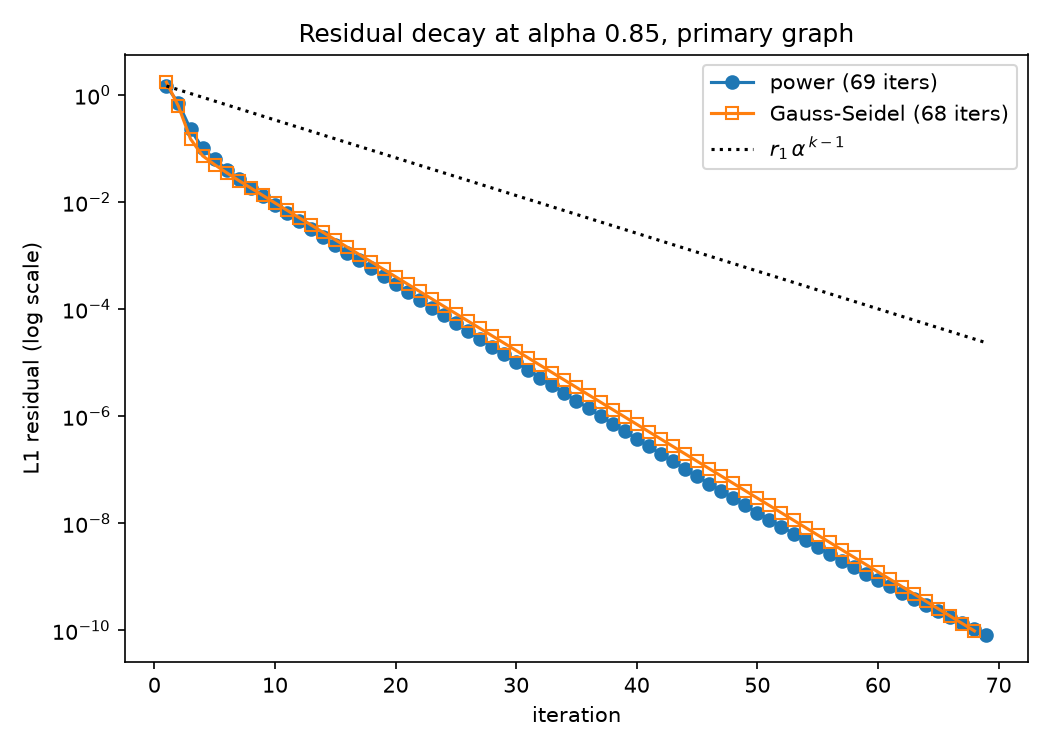
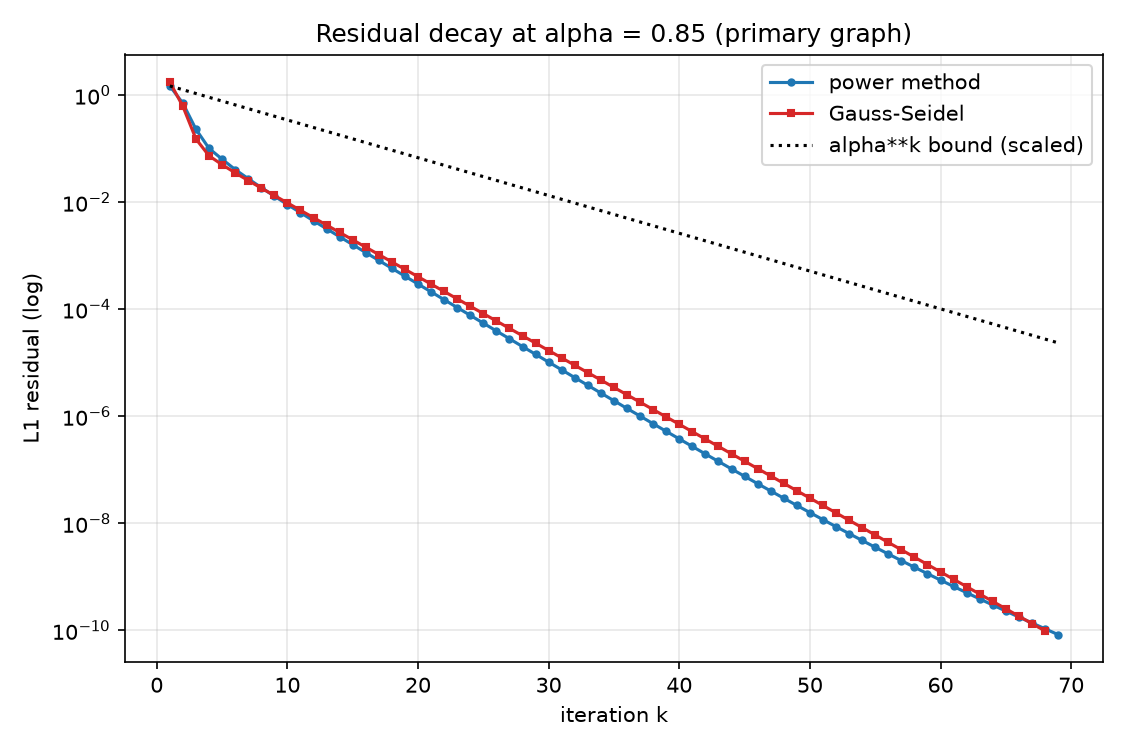
docs: log the convergence study

diff --git a/LAB_NOTEBOOK.md b/LAB_NOTEBOOK.md
@@ -1295,3 +1295,101 @@ inflates the recursive cone by a whole network, which is exactly why CAIDA
 observes cones from paths. The shipped cone stays the reference; the docstring
 of `customer_cone_sizes`, which had called the recursive count a lower bound,
 now says upper bound.
+
+---
+
+## 2026-10-20 — Convergence and the damping factor
+
+Extension 6: how the damping factor drives convergence and the ranking, and
+whether a second solver beats the power method. A Gauss-Seidel solver on the
+linear form of PageRank, plus a sweep of alpha over
+{0.50, 0.70, 0.85, 0.90, 0.95, 0.99} on the primary graph and on the
+peering-none graph, in one notebook.
+
+### Decisions
+
+- **Solve the linear form `(I - alpha P^T) x = (1 - alpha) v` by Gauss-Seidel,
+  one sparse lower-triangular solve per sweep.** Splitting `A = (D - L) - U`
+  and evaluating `x_new = (D - L)^{-1} ((1 - alpha) v + U x_old)` with
+  `spsolve_triangular` produces exactly the index-order scalar sweep, so it is
+  Gauss-Seidel and not a black-box solver; a test checks the first three sweeps
+  against a scalar reference loop element for element. One sweep on the primary
+  graph measured about 9 ms bare (24 ms under the executed notebook), far under
+  the 1 s threshold at which the design switches to an explicit forward-
+  substitution loop, so the triangular-solve path stands and the loop fallback
+  is not needed.
+- **Normalise once at the end, never inside the loop.** The transition matrix
+  is substochastic (dangling columns are zero), so the linear solve leaks mass
+  by design and its solution does not sum to 1. Dividing by the L1 norm once
+  after convergence is the dangling treatment itself: the toy-graph proof
+  (`test_dangling_conventions_agree_exactly`) shows the normalised
+  substochastic solution equals the repaired-matrix vector. Rescaling every
+  sweep would make the map non-linear and converge elsewhere.
+- **Report the convergence-rate comparison as a spectral-radius finding, not a
+  speed claim.** The first draft of the plan expected Gauss-Seidel to need
+  fewer iterations, a result that holds for many web graphs. It does not hold
+  here, and the honest framing is the reason why: each method converges at the
+  spectral radius of its own iteration matrix, and which is smaller depends on
+  the node ordering relative to the link structure. The notebook states this,
+  measures both rates on the two small fixtures exactly and on the AS graph by
+  the observed tail ratio, and concludes there is no gain on this graph in
+  ascending-ASN order. Node reorderings that might realise the advantage stay
+  out of scope (an extension of an extension).
+
+### What broke
+
+- **The expected "Gauss-Seidel needs fewer iterations" was false and would have
+  failed a test.** Symptom: on the toy graph Gauss-Seidel takes 70 sweeps to
+  tol 1e-13 against the power method's 60 (53 against 47 at 1e-10, 30 against 28
+  at 1e-6); on the primary graph the two tie within one iteration (68 against
+  69 at 1e-10) and Gauss-Seidel then falls behind as alpha rises, 930 against
+  215 at alpha 0.99. Cause: the Gauss-Seidel iteration matrix contracts less
+  per step than the power method's here. The exact 4x4 rates confirm it: on the
+  toy graph `rho(M^-1 U) = 0.668` against the Google matrix `|lambda_2| = 0.601`;
+  on the acyclic dangling fixture, whose node indices are already a topological
+  order, Gauss-Seidel is exact after one sweep (`rho = 0.000`). Fix: the
+  contested iteration-count test was replaced by two tests — one asserting the
+  measured rate ordering on the toy graph (and that Gauss-Seidel takes more
+  iterations there), one asserting one-sweep exactness on the acyclic fixture —
+  and the notebook was reframed to present the ordering dependence as the
+  finding.
+- **Per-step cost cuts the other way and had to be reported.** Even where
+  iteration counts tie, each Gauss-Seidel sweep is a triangular solve costing
+  about ten times a power-method mat-vec (median 8.25 ms against 0.80 ms per
+  iteration on the primary graph), so the power method wins decisively in wall
+  time. Stated plainly in the notebook rather than left implicit in the timing
+  table.
+
+### Verified
+
+- Suite green: 98 passed, 2 skipped (the two dangling-ground-truth skips,
+  unchanged). The Gauss-Seidel file contributes 10 tests.
+- Both solvers agree to better than 1e-9 at every alpha on both graphs (max
+  absolute difference 5e-13 to 3.5e-11), asserted in the notebook.
+- Observed power-method tail rate is at most alpha (within 0.01) at every alpha
+  on both graphs: primary 0.420 / 0.590 / 0.741 / 0.824 / 0.891 / 0.929 across
+  the six alphas, peering-none lower throughout. The alpha bound on the
+  contraction is tight and confirmed.
+- Power-method iterations grow as `log(tol)/log(alpha)` predicts: about 25 at
+  alpha 0.5 to about 215 at 0.99 on the primary graph.
+- Ranking stability on the primary graph against alpha 0.85: tau-b over the
+  top-1000 union stays above 0.6 across the whole range (0.549 at 0.5, 0.644 at
+  0.99) and the top 10 changes by at most three ASes, so the notebook-02 reading
+  of the top of the ranking does not depend on the exact alpha.
+- Notebook executes top to bottom under `nbconvert` in about 13.5 s of
+  computation (16 s wall), under the 3-minute budget. Tables
+  `03_convergence_vs_alpha.csv`, `03_ranking_vs_alpha.csv` and figures
+  `03_iterations_vs_alpha.png`, `03_residuals_alpha085.png` written to
+  `results/`.
+
+### Open items
+
+- The extension list is now reduced to one: convergence is done, local push
+  remains and is the first to be cut if time runs short.
+- Gauss-Seidel brings no speed gain on this graph in ascending-ASN order. If
+  local push is dropped, a reordering of the nodes (approximate topological, or
+  by the strongly-connected-component condensation) is the natural way to make
+  the Gauss-Seidel comparison favourable, but it stays out of scope unless
+  everything else is finished and written up.
+- `DANGLING_PAGERANK_EXACT` is still underived by hand and still `None`; the two
+  solver tests consuming it stay skipped. Unchanged.
